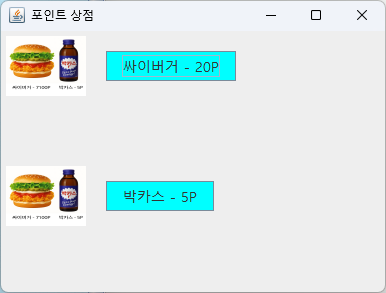
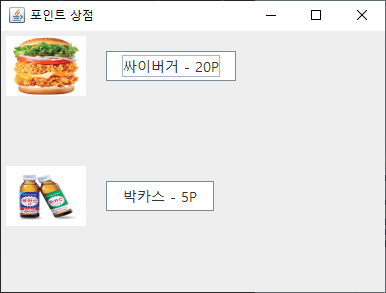
쿠폰 보관함, 포인트 상점 이미지 수정

diff --git a/src/main/java/coupon/ui/FrameCouponStore.java b/src/main/java/coupon/ui/FrameCouponStore.java
@@ -44,9 +44,9 @@ public class FrameCouponStore extends JFrame {
             String resourcePath = null;
 
             if (coupon.getName().equals("싸이버거")) {
-                resourcePath = "/img/siburger.png";
+                resourcePath = "/img/thighburger.jpg";
             } else if (coupon.getName().equals("박카스")) {
-                resourcePath = "/img/baccas.png";
+                resourcePath = "/img/baccas.jpg";
             }
 
             if (resourcePath != null) {
@@ -64,7 +64,7 @@ public class FrameCouponStore extends JFrame {
             }
 
             JButton button = new JButton(coupon.getName() + " - " + coupon.getPrice() + "P");
-            button.setBackground(Color.CYAN);
+            button.setBackground(Color.WHITE);
             button.addActionListener(e -> handlePurchase(coupon));
 
             // ✅ 이미지 + 버튼을 하나의 행 패널에 넣는다

diff --git a/src/main/java/coupon/ui/FrameCouponGallery.java b/src/main/java/coupon/ui/FrameCouponGallery.java
@@ -50,9 +50,9 @@ public class FrameCouponGallery extends JFrame {
             String couponName = purchase.getCoupon().getName();
 
             if (couponName.equals("싸이버거")) {
-                imagePath = "/img/siburger.png";
+                imagePath = "/img/thighburger.jpg";
             } else if (couponName.equals("박카스")) {
-                imagePath = "/img/baccas.png";
+                imagePath = "/img/baccas.jpg";
             }
 
             ImageIcon icon = null;
